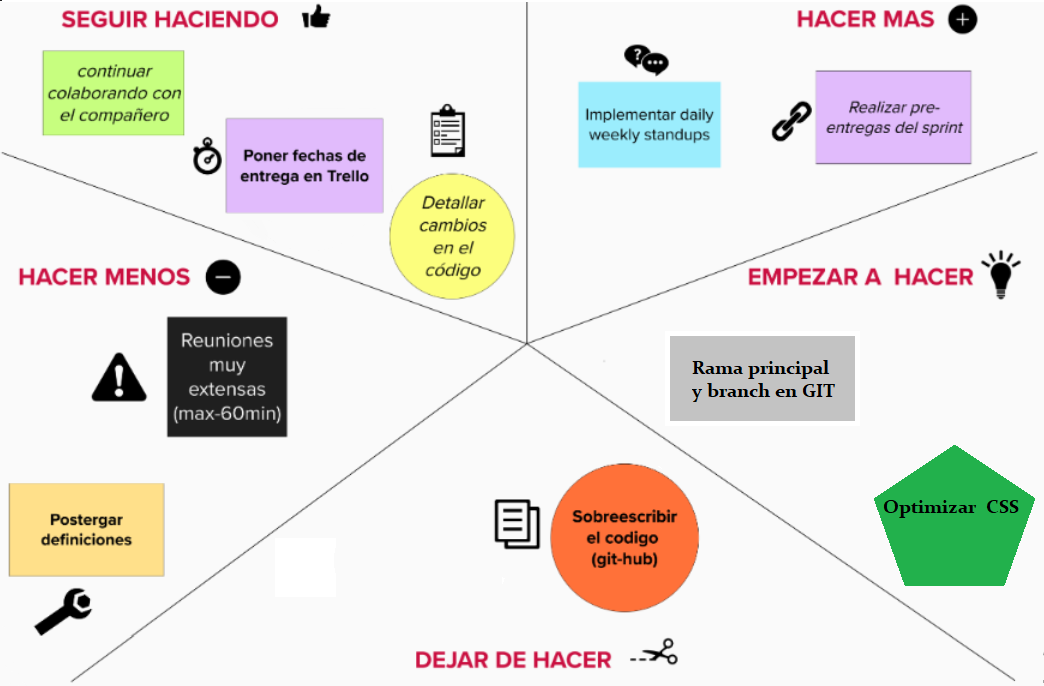
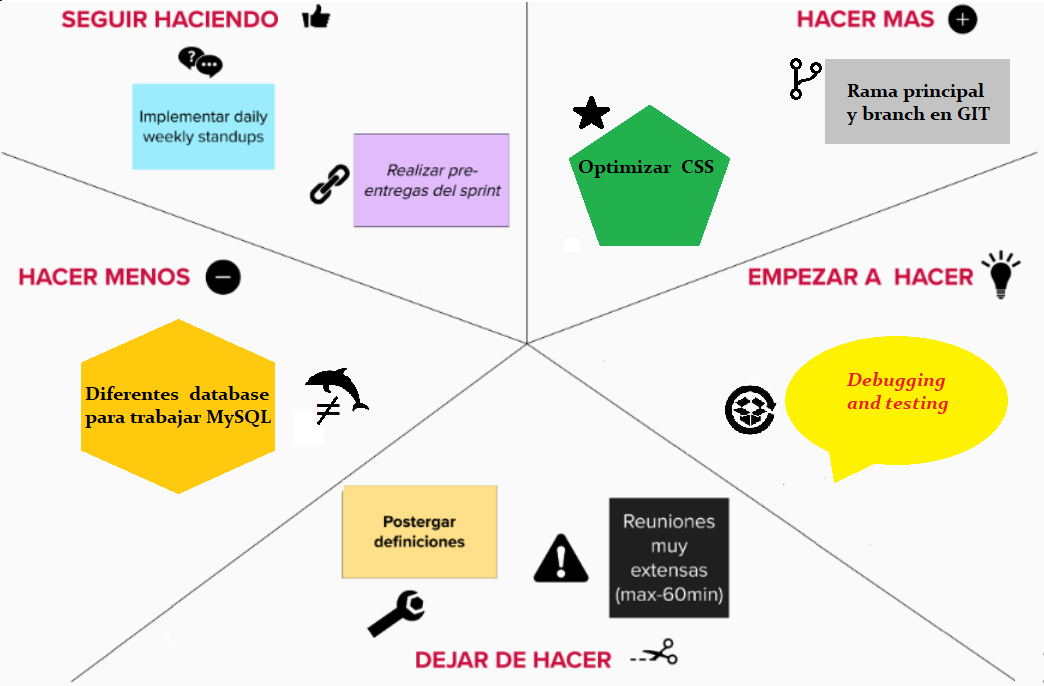
agrego retro daily/weekly sprint 6

diff --git a/daily.md b/daily.md
@@ -1,5 +1,5 @@
-DAILY / WEEKLY STANDUPS
------------------------
+DAILY / WEEKLY STANDUPS (sprint 5)
+----------------------------------
 
 - Sabado 03/10/2020, Diseñamos diagrama de base de datos, definimos tablero de trabajo,comenzamos con script.
 
@@ -8,3 +8,14 @@ DAILY / WEEKLY STANDUPS
 - Sabado 10/10/2020,Visualizamos errores de funcionalidad, confirmamos arreglos.
 
 - Lunes 12/10/2020, Testeo y entrega del proyecto.
+
+
+DAILY / WEEKLY STANDUPS (sprint 6)
+----------------------------------
+
+- Viernes 23/10/2020, Revisamos scripts de asosiaciones, corregimos relaciones en workbench.
+
+- Viernes 30/10/2020, Continuamos con asociaciónes, integramos las validaciones.
+
+- Lunes 02/11/2020, Efectuamos correcciones, ejecutamos validaciones.
+

diff --git a/retro.md b/retro.md
@@ -1,27 +1,30 @@
 SEGUIR HACIENDO:
 
--Continuar colaborando con el compañero
--Detallar cambios en el codigo
--Poner fechas de entrega en trello
-
-HACER MAS:
-
 -Realizar pre-entregas del sprint
 -Daily weekly standups
 
 
-EMPEZAR A HACER:
+HACER MAS:
 
 -Rama principal y branch en git
 -Optimizar css
 
+
+EMPEZAR A HACER:
+
+-Debugging and testing
+
 HACER MENOS:
+
+-Diferentes database en MySQL
+
+
+DEJAR DE HACER:
 
 -Reuniones muy extensas
 -Postergar pre-entregas
 -Postergar PG
 
-DEJAR DE HACER:
 
--Sobreescribir codigo en git
+
 
